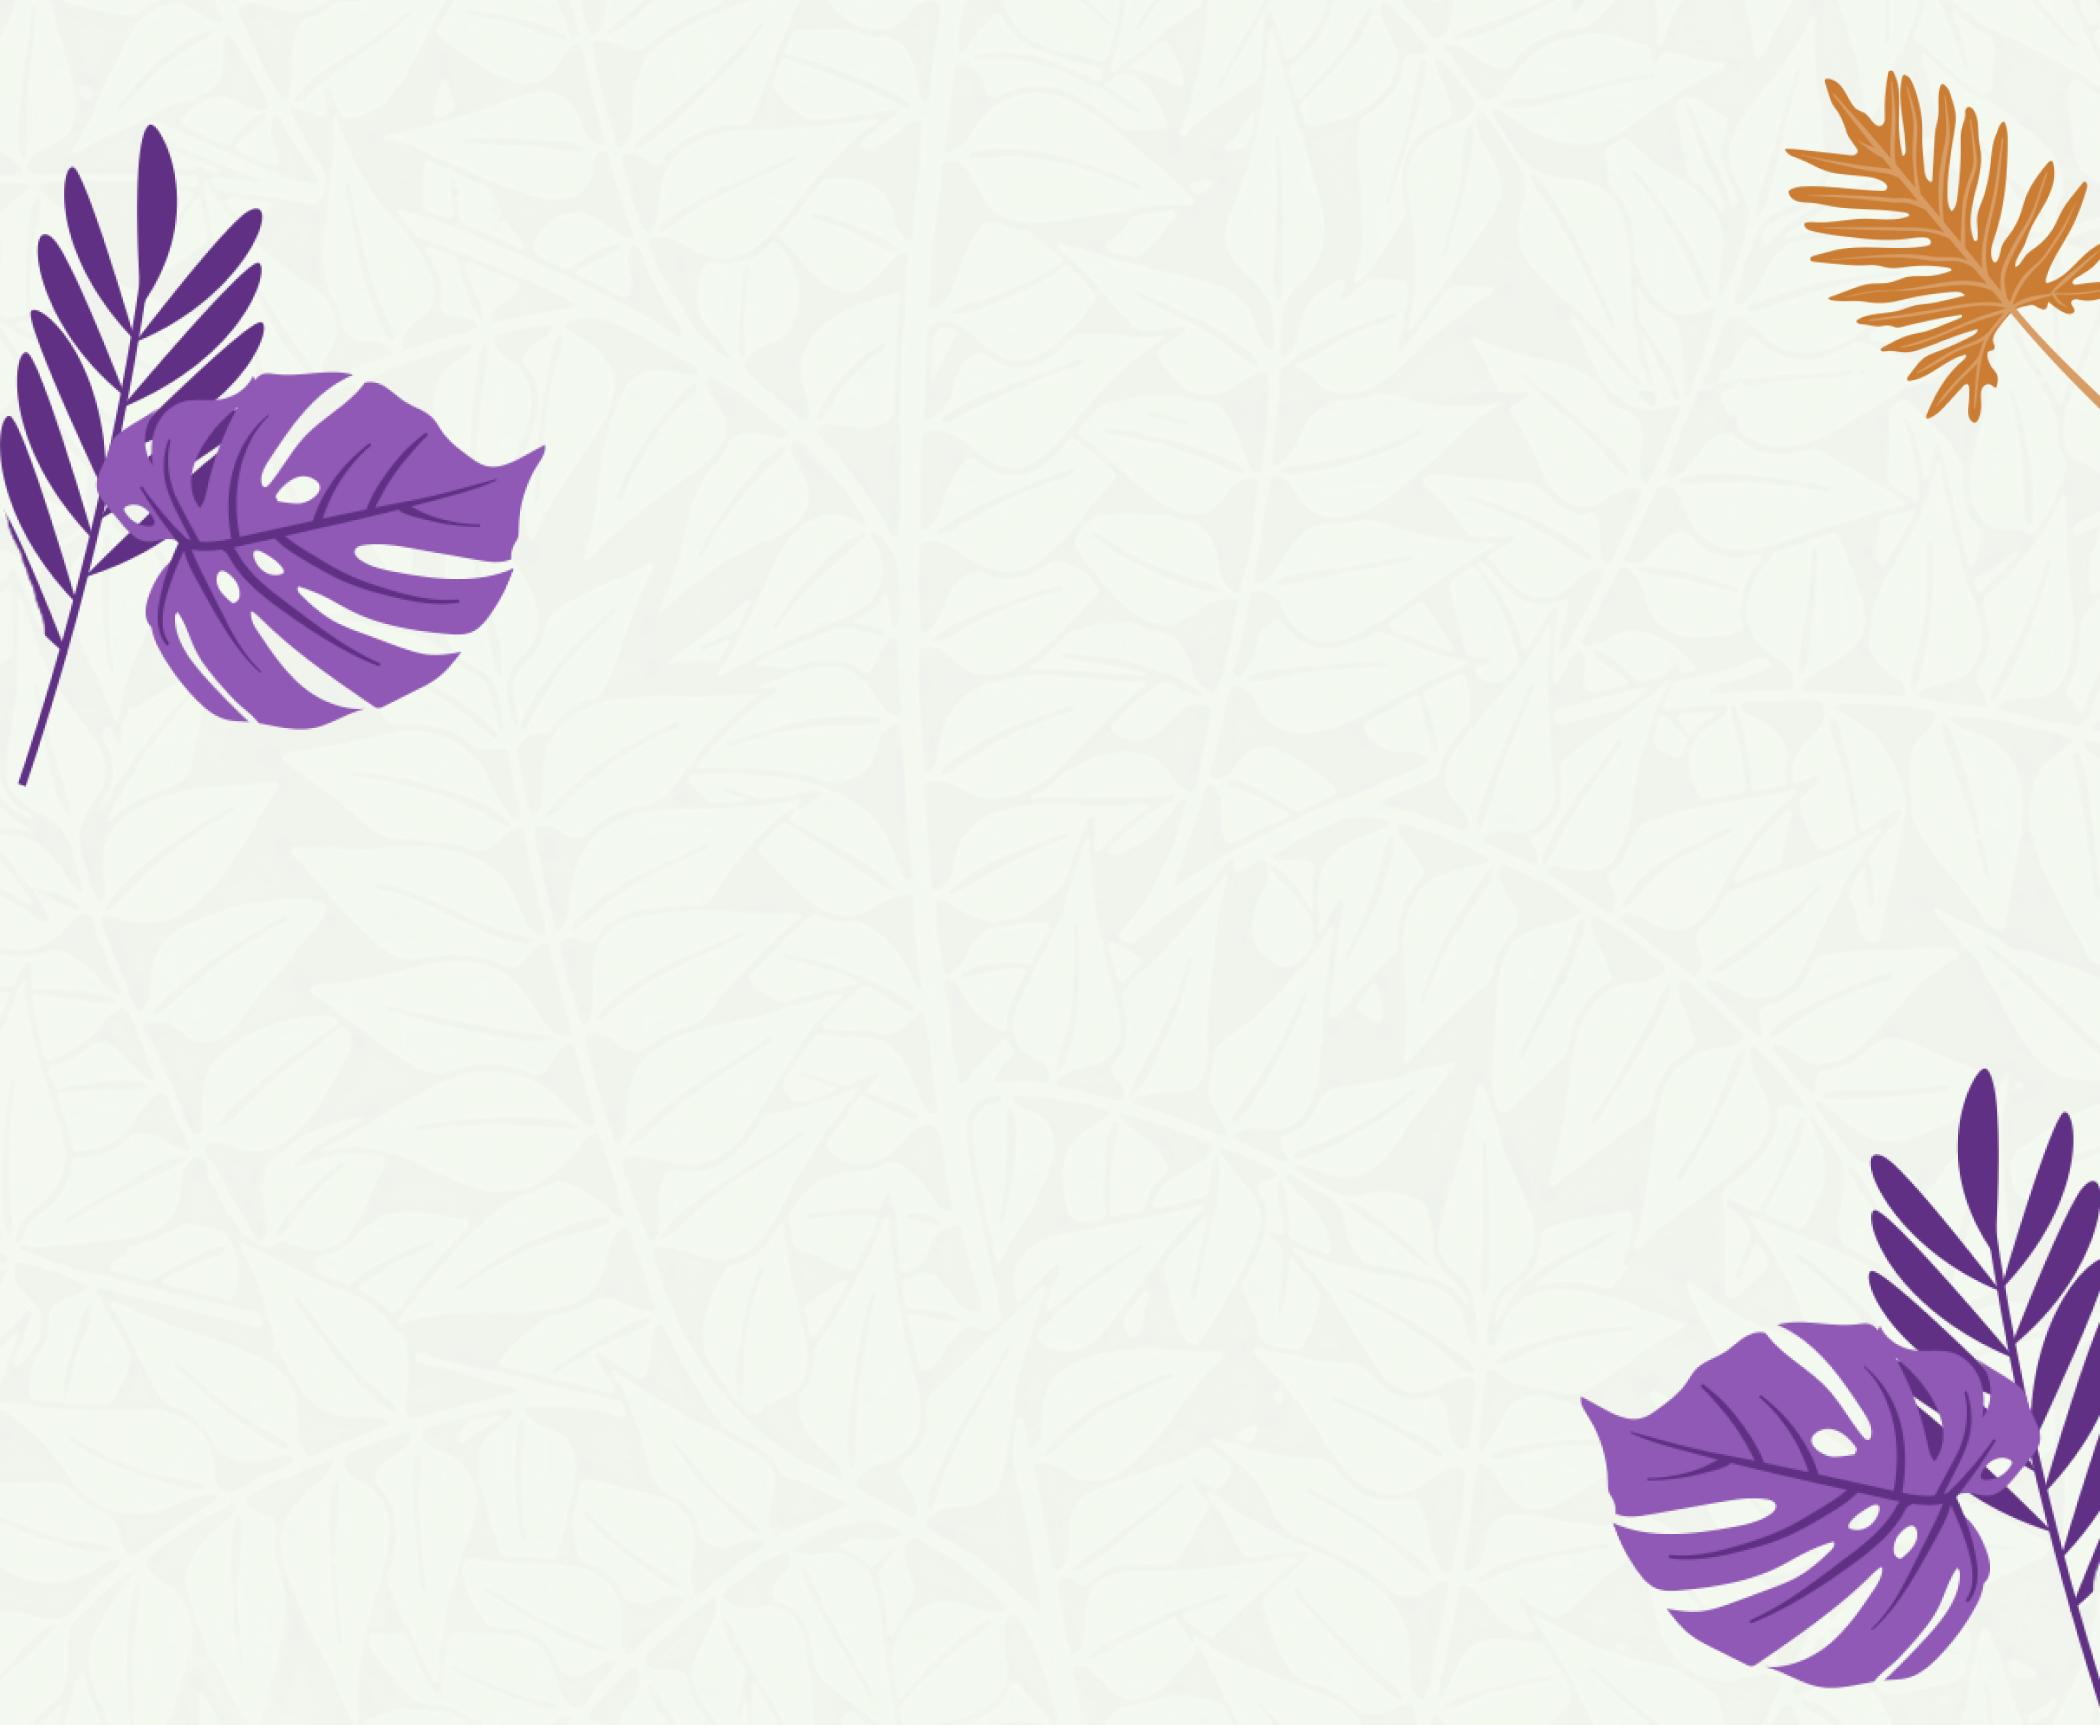
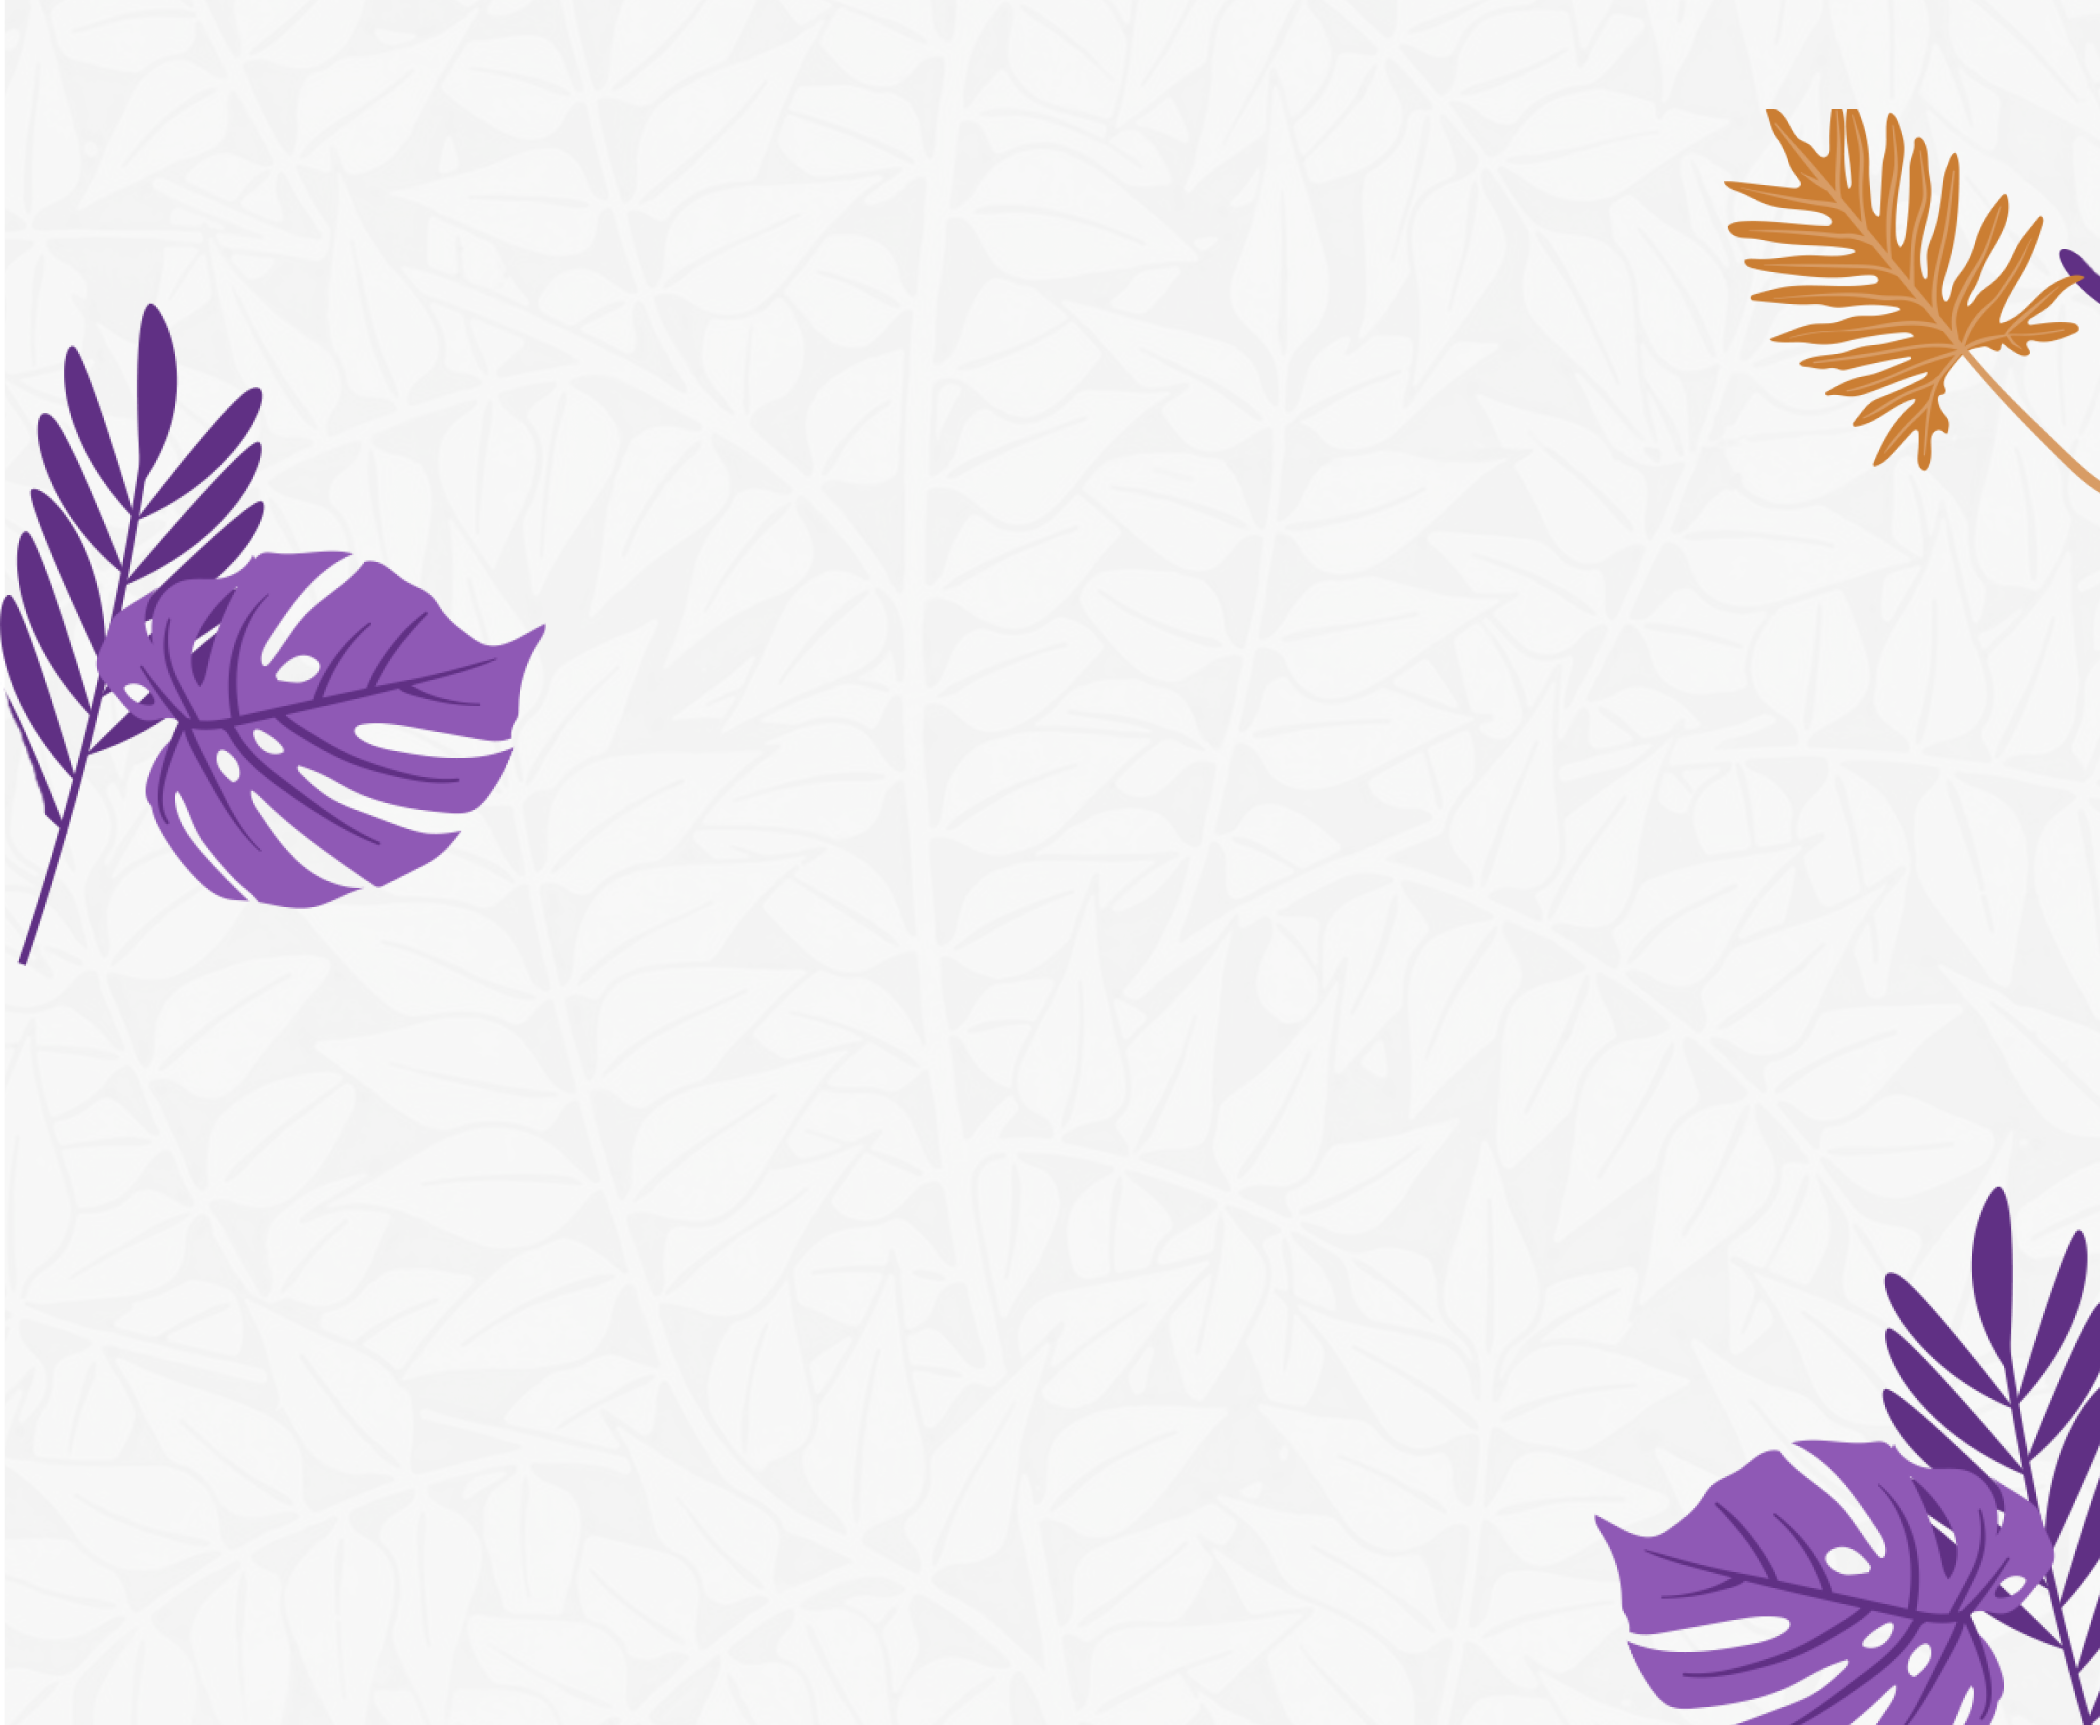
arvorometro stylization

diff --git a/index.html b/index.html
@@ -12,9 +12,7 @@
   <meta name="description" content="" />
   <meta name="author" content="" />
   <link rel="shortcut icon" href="images/Icon.png" type="">
-  <link rel="stylesheet" href="https://cdnjs.cloudflare.com/ajax/libs/font-awesome/6.2.0/css/all.min.css">
   
-
   <title>Sementes da Educação</title>
 
   <!-- bootstrap core css -->
@@ -33,6 +31,7 @@
   <link href="css/style.css" rel="stylesheet" />
   <!-- responsive style -->
   <link href="css/responsive.css" rel="stylesheet" />
+
 
 </head>
 
@@ -88,8 +87,8 @@
 
     <!-- slider section -->
     
-    <section class="slider_section ">
-      <div id="customCarousel1" class="carousel slide" data-ride="carousel">
+    <section class="slider_section">
+      <div id="customCarousel1" class="carousel slide drag_carousel" data-ride="carousel">
         <div class="carousel-inner">
           <div class="carousel-item active">
             <img src="images/mainBg.svg" alt="">
@@ -115,7 +114,32 @@
               </div>
             </div>
           </div>
-        </div>
+
+          <!-- <div class="carousel-item">
+            <img src="images/mainBg.svg" alt="">
+            <div class="container ">
+              <div class="row">
+                <div class="col-6 py-3">
+                  <div class="detail-box">
+                    <h1>
+                      Sementes da <br>
+                     <span id="texto02">Educação</span>
+                    </h1>
+                    <p>
+                      Estudantes da rede pública de educação paraense serão responsáveis por plantar <strong>1 milhão de mudas de árvores.</strong>
+                    </p>
+                    <div class="btn-box">
+                      <a href="" class="btn1">
+                        Saiba mais
+                      </a>
+                    </div>
+                  </div>
+                </div>
+                
+              </div>
+            </div>
+          </div>
+        </div> -->
         <!-- <ol class="carousel-indicators">
           <li data-target="#customCarousel1" data-slide-to="0" class="active"></li>
         </ol> -->
@@ -201,18 +225,18 @@
     <div class="container">
       <div class="carrousel_content">
         <div class="wrapper">
-          <i class="fa-solid fa-angle left"></i>
-          <div class="cards_carrousel">
-            <img src="images/carrousel_img1 1.png" alt="">
-            <img src="images/carrousel_img2 1.png" alt="">
-            <img src="images/carrousel_img3 1.png" alt="">
-            <img src="images/carrousel_img4 1.png" alt="">
-            <img src="images/carrousel_img5 1.png" alt="Combu é uma das 39 ilhas de Belém - Foto: Eduardo Vesson">
+          <i id="left" class="fa-solid fa-angle left"></i>
+          <div class="carrousel">
+            <img src="images/carrousel_img1 1.png" alt="" draggable="false">
+            <img src="images/carrousel_img2 1.png" alt="" draggable="false">
+            <img src="images/carrousel_img3 1.png" alt="" draggable="false">
+            <img src="images/carrousel_img4 1.png" alt="" draggable="false">
+            <img src="images/carrousel_img5 1.png" alt="Combu é uma das 39 ilhas de Belém - Foto: Eduardo Vesson" draggable="false">
           </div>
           <i class="fa-solid fa-angle right"></i>
         </div>
       </div>
-      <div class="amazonia_paragraph">
+      <div id="right" class="amazonia_paragraph">
         <p>
           Cuidar dos povos amazônicos é crucial para preservar sua cultura e o equilíbrio ambiental global. A
           alfabetização ambiental é essencial para conscientizar sobre a interdependência entre humanos e meio
@@ -315,10 +339,9 @@
     <div class="container">
       <h3>Arvorômetro</h3>
       <div class="arvorometro_content">
-  
         <div class="gmap_canvas">
           <iframe src="https://maps.google.com/maps?q=Par%C3%A1&amp;t=&amp;z=5&amp;ie=UTF8&amp;iwloc=&amp;output=embed"
-            frameborder="0" scrolling="no" style="width: 500px; height: 500px;">
+            frameborder="0" scrolling="no">
           </iframe>
           <a href="https://blooketjoin.org/blooket-login/">blooket login</a>
         </div>
@@ -328,7 +351,9 @@
           <p>das 1 milhão de mudas.</p>
         </div>
       </div>
-
+        <img class="folha_bg01 sheets_decoration" src="images/folha01.png" alt="">
+        <img class="folha_bg02 sheets_decoration" src="images/folha02.png" alt="">
+        <img class="folha_bg03 sheets_decoration" src="images/folha03.png" alt="">
     </div>
   </section>
   <!-- end client section -->
@@ -370,11 +395,35 @@
     </div>
   </section>
 
+  <!-- <div class="container">
+    <div id="carouselExampleControls" class="carousel slide" data-ride="carousel">
+      <div class="carousel-inner">
+        <div class="carousel-item active">
+          <img class="d-block w-100" src="images/carrousel_img1 1.png" alt="Primeiro Slide">
+        </div>
+        <div class="carousel-item">
+          <img class="d-block w-100" src="images/carrousel_img2 1.png" alt="Segundo Slide">
+        </div>
+        <div class="carousel-item">
+          <img class="d-block w-100" src="images/carrousel_img3 1.png" alt="Terceiro Slide">
+        </div>
+      </div>
+      <a class="carousel-control-prev" href="#carouselExampleControls" role="button" data-slide="prev">
+        <span class="carousel-control-prev-icon" aria-hidden="true"></span>
+        <span class="sr-only">Anterior</span>
+      </a>
+      <a class="carousel-control-next" href="#carouselExampleControls" role="button" data-slide="next">
+        <span class="carousel-control-next-icon" aria-hidden="true"></span>
+        <span class="sr-only">Próximo</span>
+      </a>
+    </div>
+  </div> -->
+
   <!-- end info section -->
 
 
   <!-- jQery -->
-  <script src="js/script.js"></script>
+
   <script type="text/javascript" src="js/jquery-3.4.1.min.js"></script>
   <!-- popper js -->
   <script src="https://cdn.jsdelivr.net/npm/popper.js@1.16.0/dist/umd/popper.min.js" integrity="sha384-Q6E9RHvbIyZFJoft+2mJbHaEWldlvI9IOYy5n3zV9zzTtmI3UksdQRVvoxMfooAo" crossorigin="anonymous">

diff --git a/css/style.css b/css/style.css
@@ -473,71 +473,6 @@ a:focus {
 
 
 /* ! ****************************************************/
-#amazonia_section .carrousel_content{
-  background-color: #007fa4;
-  padding: 0 30px;
-  display: flex;
-  align-items: center;
-  justify-content: center;
-  min-height: 100vh;
-}
-
-.wrapper{
-  max-width: 1200px;
-  position: relative;
-}
-
-.wrapper i{
-  top: 50px;
-  height: 46px;
-  width: 46px;
-  position: absolute;
-  cursor: pointer;
-  font-size: 1.2rem;
-  text-align: center;
-  line-height: 46px;
-  border-radius: 50%;
-  transform: translateY(-50%);
-  background-color: #340E30;
-}
-
-.wrapper i:first-child{
-  left: -23px;
-}
-
-.wrapper i:last-child{
-  right: -23px;
-}
-
-.wrapper .cards_carrousel{
-  font-size: 0px;
-  cursor: pointer;
-  overflow: hidden;
-  white-space: nowrap;
-}
-
-.cards_carrousel img{
-  height: 300px;
-  object-fit: cover;
-  margin-left: 14px;
-  width: calc(100% /3);
-}
-
-.cards_carrousel img:first-child{
-  margin-left: 0px;
-}
-
-@media screen and (max-width: 900px){
-  .cards_carrousel img{
-    width: calc(100% / 2);
-  }
-}
-
-@media screen and (max-width: 550px) {
-  .cards_carrousel img{
-    width: 100%;
-  }
-}
 
 /*! SECTION ESPECIES DISPONIVEIS */
 #especies_section{
@@ -619,18 +554,40 @@ a:focus {
 /*team section end*/
 
 /*-------ARVOROMETRO E MAPA--------*/
+#arvorometro_section{
+  position: relative;
+  background-image: url("../images/fundo_teste.png");
+}
+
+#arvorometro_section .container .sheets_decoration{
+  max-width: 300px;
+  max-height: 300px;
+  position: absolute;
+}
+
+#arvorometro_section .container .folha_bg01{
+  bottom: 10px;
+  right: 0px;
+  width: 150px;
+  height: auto;
+}
+
+
 #arvorometro_section h3{
   font-family: "Allan";
   font-weight: bold;
   font-size: 80px;
   text-align: center;
   color: #611059;
+  padding: 30px 20px;
 }
 
 #arvorometro_section .arvorometro_content{
   display: flex;
-  justify-content: center;
+  justify-content: space-around;
   align-items: center;
+  gap: 10px;
+  padding-bottom: 40px;
 }
 
 .mapouter {
@@ -649,13 +606,18 @@ a:focus {
 
 .gmap_canvas {
   overflow: hidden;
+  max-width: 700px;
   height: 500px;
-  width: 50%;
+  width: 100%;
+
 }
 
 .gmap_canvas iframe {
+  border-radius: 20px;
   position: relative;
-  z-index: 2
+  z-index: 2;
+  width: 100%;
+  height: 500px;
 }
 
 #arvorometro_section .text_content{
@@ -663,15 +625,16 @@ a:focus {
   font-weight: bold;
   color: #521C4D;
   text-align: center;
-  font-size: 30px;
+  font-size: 25px;
 }
 
 #arvorometro_section .text_content .arvorometro_count{
-  font-size: 70px;
+  border-radius: 20px;
+  font-size: 75px;
   font-weight: bold;
   color:#fff;
   background-color: #611059;
-  padding: 5px 15px;
+  padding: 5px 30px;
 }
 
 /*--------------FIM----------------*/
@@ -679,7 +642,7 @@ a:focus {
 
 /* -----------RODAPE SECTION----------------*/
 #rodape_section{
-  background-image: url("../images/textura_rodape.png");
+  background-image: url("../images/fundo_teste.png");
   backdrop-filter: grayscale(100%);
   background-color: #611059;
   padding: 30px 0;

diff --git a/js/custom.js b/js/custom.js
@@ -9,9 +9,14 @@ getYear();
 
 
 // client section owl carousel
+
+
 $(".client_owl-carousel").owlCarousel({
     loop: true,
     margin: 20,
+    touchDrag: true,
+    mouseDrag: true,
+    freeDrag: true,
     dots: false,
     nav: true,
     navText: [],
@@ -45,3 +50,4 @@ function myMap() {
     var map = new google.maps.Map(document.getElementById("googleMap"), mapProp);
 }
 
+s
